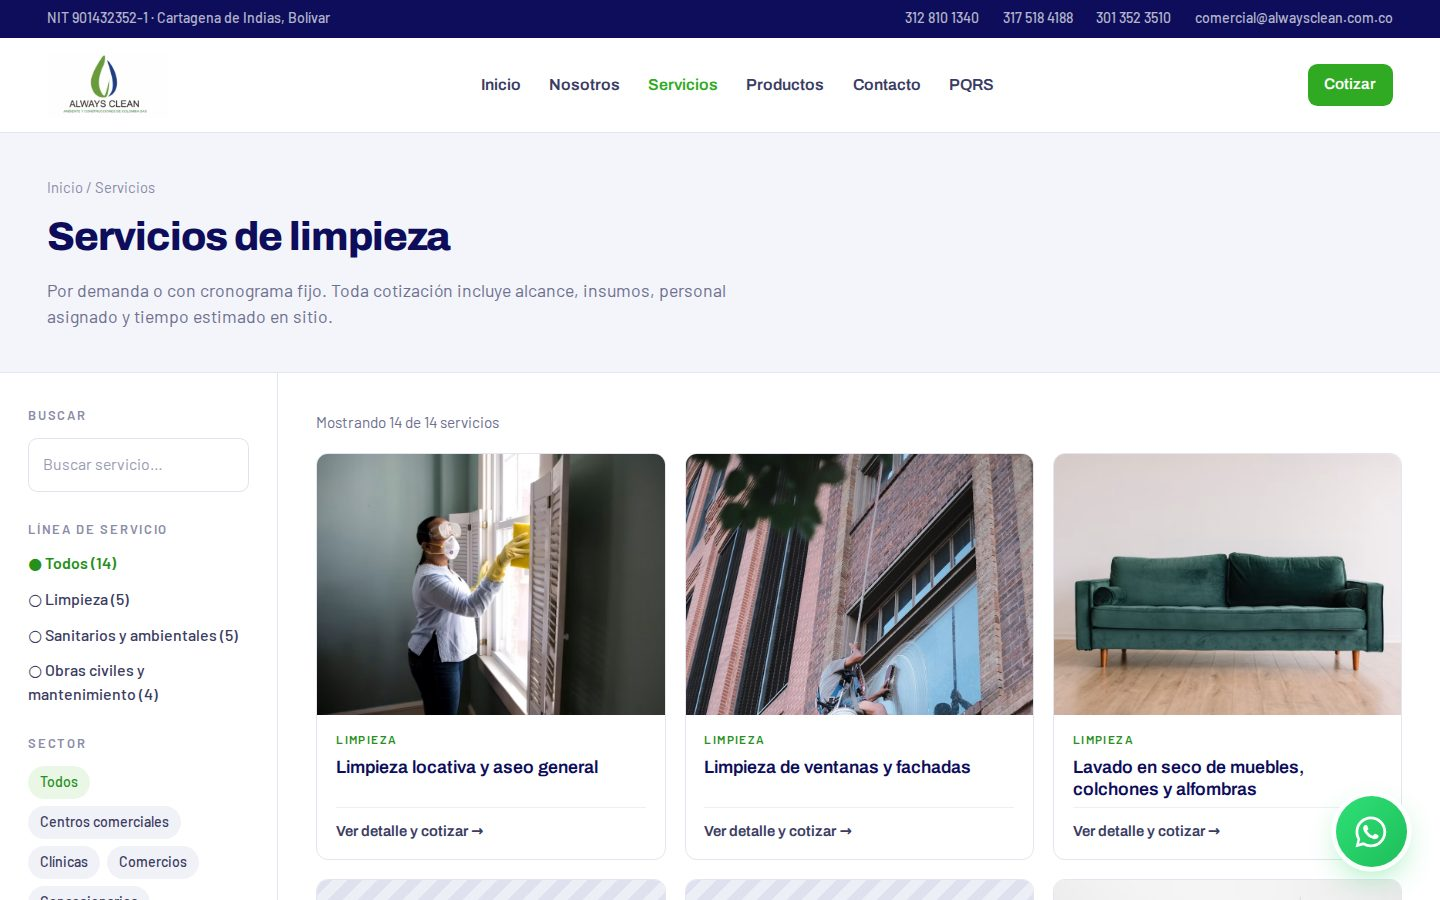
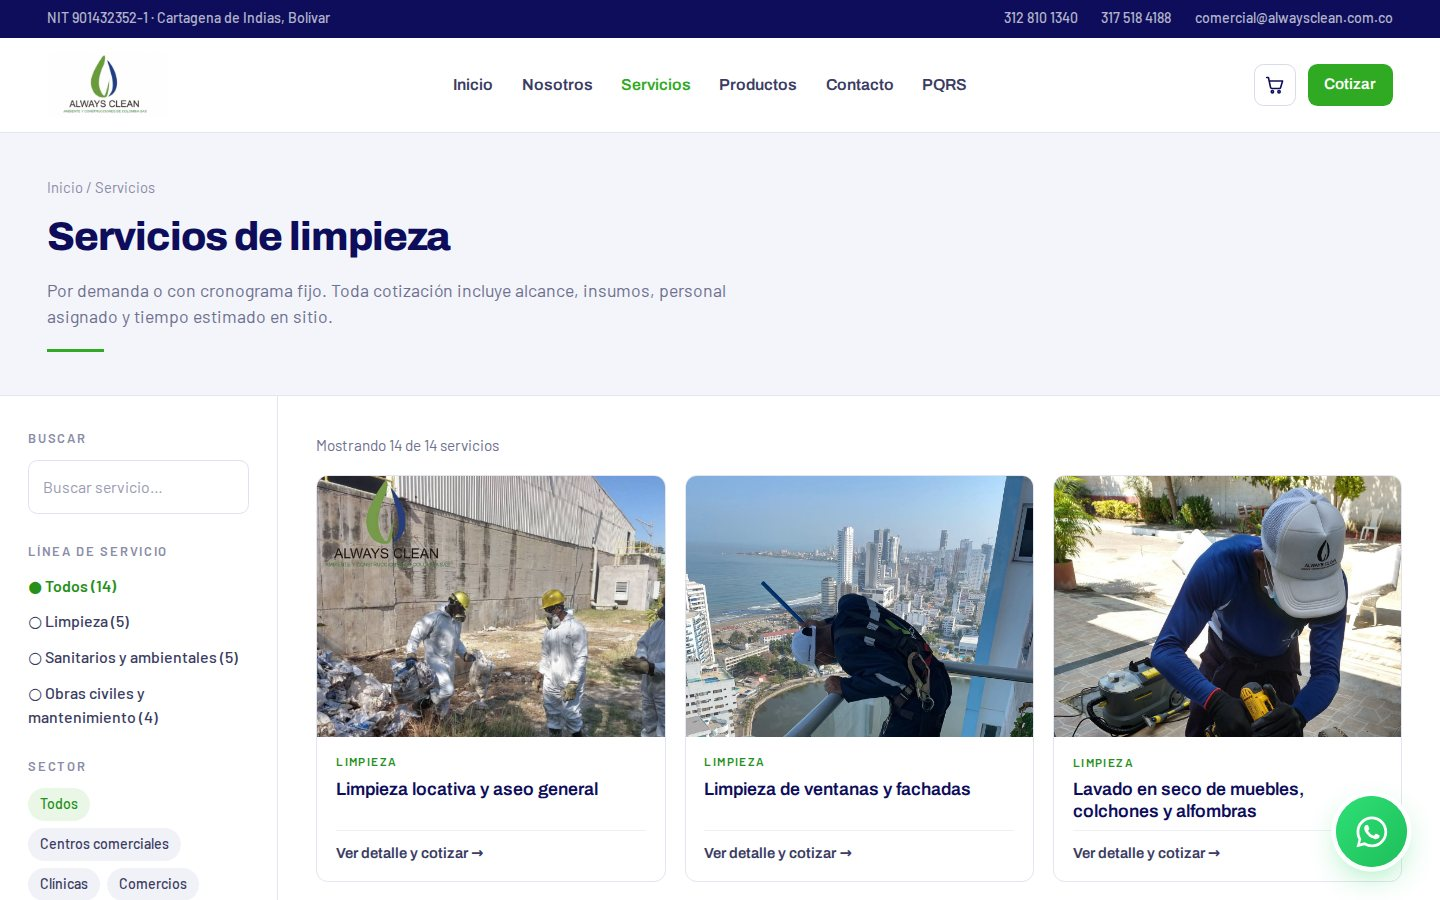
docs: README y capturas con el rediseño del sitio

diff --git a/README.md b/README.md
@@ -35,6 +35,7 @@
 - [Pruebas](#pruebas)
 - [Despliegue](#despliegue)
 - [Seguridad](#seguridad)
+- [Créditos](#créditos)
 - [Licencia](#licencia)
 
 ## Descripción
@@ -46,9 +47,14 @@ El proyecto reúne dos aplicaciones sobre una misma base de código:
 
 ## Capturas
 
-| Inicio | Servicios |
+<p align="center">
+  <img src="docs/capturas/home.jpg" alt="Portada del inicio: foto a pantalla completa, título con los colores del logo y redes sociales" width="100%"><br>
+  <sub>Portada del inicio.</sub>
+</p>
+
+| Servicios | Nosotros |
 | --- | --- |
-| ![Página de inicio](docs/capturas/home.jpg) | ![Catálogo de servicios](docs/capturas/servicios.jpg) |
+| ![Catálogo de servicios](docs/capturas/servicios.jpg) | ![Página Nosotros](docs/capturas/nosotros.jpg) |
 | **Solicitud de cotización** | **Acceso al panel** |
 | ![Formulario de cotización](docs/capturas/cotizacion.jpg) | ![Ingreso al panel interno](docs/capturas/login.jpg) |
 
@@ -63,15 +69,24 @@ El proyecto reúne dos aplicaciones sobre una misma base de código:
 
 | Sección | Qué ofrece |
 | --- | --- |
-| **Inicio** | Propuesta de valor, servicios destacados, productos, bono de bienvenida y carrusel de clientes. |
+| **Inicio** | Portada a pantalla completa con foto real en movimiento, título con los colores del logo y redes sociales. Luego segmentos atendidos, servicios destacados, productos, bono de bienvenida, preguntas frecuentes, certificaciones (ICONTEC ISO 9001, IQNET), avales (DADIS, EPA, FENALCO) y carrusel de clientes. |
 | **Servicios** | Catálogo filtrable por línea de servicio y sector, con ficha de detalle por servicio. |
 | **Productos** | Línea de productos propios. |
-| **Nosotros** | Quiénes somos, misión, visión, valores, principios y sectores atendidos. |
+| **Nosotros** | Quiénes somos, misión, visión, objetivos, principios de acción, valores, creencias y sectores atendidos. |
 | **Políticas** | Política integral de gestión (PO-SGI-001). |
 | **Cotizar** (`/contacto`) | Formulario en tres pasos: servicios, sede y contacto. Autocompletado de direcciones con Google Places y pin en el mapa. Al enviar, la solicitud queda registrada y el cliente continúa la conversación por WhatsApp con su número de caso. |
 | **PQRS** | Radicación de peticiones, quejas, reclamos y sugerencias con número de seguimiento y confirmación por correo. |
 
-Además, la franja superior con NIT y datos de contacto y el botón flotante de WhatsApp aparecen en todas las páginas.
+En todas las páginas aparecen la franja superior con NIT y datos de contacto, el botón flotante de WhatsApp y un pie con dirección, teléfonos y enlaces a Facebook, X e Instagram.
+
+### Diseño e interacción
+
+- **Portada del inicio**: foto real del equipo a pantalla completa con zoom lento continuo, header transparente sobre la imagen y título en *Unbounded* con "Always" en verde y "Clean" en azul, los colores de la gota del logo.
+- **Apariciones al bajar**: las secciones de inicio, servicios, productos y nosotros entran con desvanecido y desplazamiento al hacer scroll, escalonadas en listas y tarjetas. Componente `Revelar` (un `IntersectionObserver` compartido y CSS, sin librerías de animación).
+- **Efectos al pasar el mouse**: tarjetas que se elevan con sombra y acercan la foto, flechas que avanzan y rayas verdes que crecen bajo los títulos.
+- **Carrusel de clientes**: 12 logos reales en gris que toman su color al pasar el mouse, normalizados para ocupar la misma área visual.
+- **Accesibilidad**: con *reducir movimiento* activado en el sistema, todas las animaciones se desactivan y el contenido se muestra completo.
+- **Vista previa al compartir**: imagen Open Graph (`public/images/og-default.jpg`) con la portada del sitio, para WhatsApp, Facebook y LinkedIn.
 
 ### Panel interno
 
@@ -88,7 +103,8 @@ Además, la franja superior con NIT y datos de contacto y el botón flotante de 
 | --- | --- |
 | Backend | Laravel 13 (PHP 8.2+) |
 | Frontend | React 18 con Inertia.js 2 (sin API REST separada) |
-| Estilos | Tailwind CSS 3 y `@tailwindcss/forms` |
+| Estilos | Tailwind CSS 3 y `@tailwindcss/forms`; animaciones en CSS puro |
+| Tipografía | Archivo, Barlow y Unbounded (Google Fonts) |
 | Build | Vite 6 |
 | Base de datos | MySQL 8 (SQLite en memoria para pruebas) |
 | Colas | Laravel Queue (envío de correos) |
@@ -106,17 +122,19 @@ app/
 ├── Models/                  Servicio, Producto, Cotizacion, CotizacionEvento, PqrsCaso
 ├── Rules/                   Reglas de validación propias (Turnstile)
 └── Support/                 Utilidades (cargas de archivos, IP del visitante)
-config/company.php           Datos de la empresa compartidos con el frontend
+config/company.php           Datos de la empresa compartidos con el frontend (incluye redes sociales)
 database/
 ├── migrations/
 ├── seeders/                 Catálogo inicial y cotizaciones de ejemplo
 └── sql/                     Scripts de base de datos para producción
 resources/js/
 ├── Pages/                   Una página Inertia por vista (Home, Contacto, Interno/…)
-├── Components/Site/         Componentes del sitio público
+├── Components/Site/         Componentes del sitio público (Revelar, RedesSociales, ClientesCarousel…)
 ├── Components/Interno/      Componentes del panel
 ├── Layouts/                 SiteLayout e InternoLayout
 └── lib/                     Utilidades de frontend (Google Maps, WhatsApp)
+resources/css/app.css        Estilos globales y animaciones de aparición
+public/images/               Logos, fotos de servicios, avales y logos de clientes
 tests/Feature/               Pruebas de PQRS, cotizaciones e IP del visitante
 ```
 
@@ -173,7 +191,7 @@ Además de las variables estándar de Laravel, el proyecto usa:
 | `DB_PQRS_USERNAME` / `DB_PQRS_PASSWORD` | Usuario de base de datos de privilegios mínimos para el formulario de PQRS. | No: sin él usa la conexión principal |
 | `IP_DESDE_CLOUDFLARE` | Toma la IP del visitante del encabezado de Cloudflare cuando el sitio está detrás de su proxy. | No (por defecto `false`) |
 
-Los datos de la empresa que se muestran en el sitio (NIT, teléfonos, correos, WhatsApp, horario) se editan en `config/company.php`.
+Los datos de la empresa que se muestran en el sitio (NIT, teléfonos, correos, WhatsApp, horario y enlaces a redes sociales) se editan en `config/company.php`.
 
 ## Pruebas
 
@@ -202,6 +220,10 @@ La lista de verificación completa está en [`CLAUDE.md`](CLAUDE.md#checklist-al
 - El panel interno requiere autenticación y no está enlazado desde el sitio público.
 
 Si encuentra una vulnerabilidad, escriba a **comercial@alwaysclean.com.co** en lugar de abrir un *issue* público.
+
+## Créditos
+
+Diseño y desarrollo: [Yeizer Marrugo](https://yeizermarrugo.github.io/mi-portafolio/).
 
 ## Licencia
 
